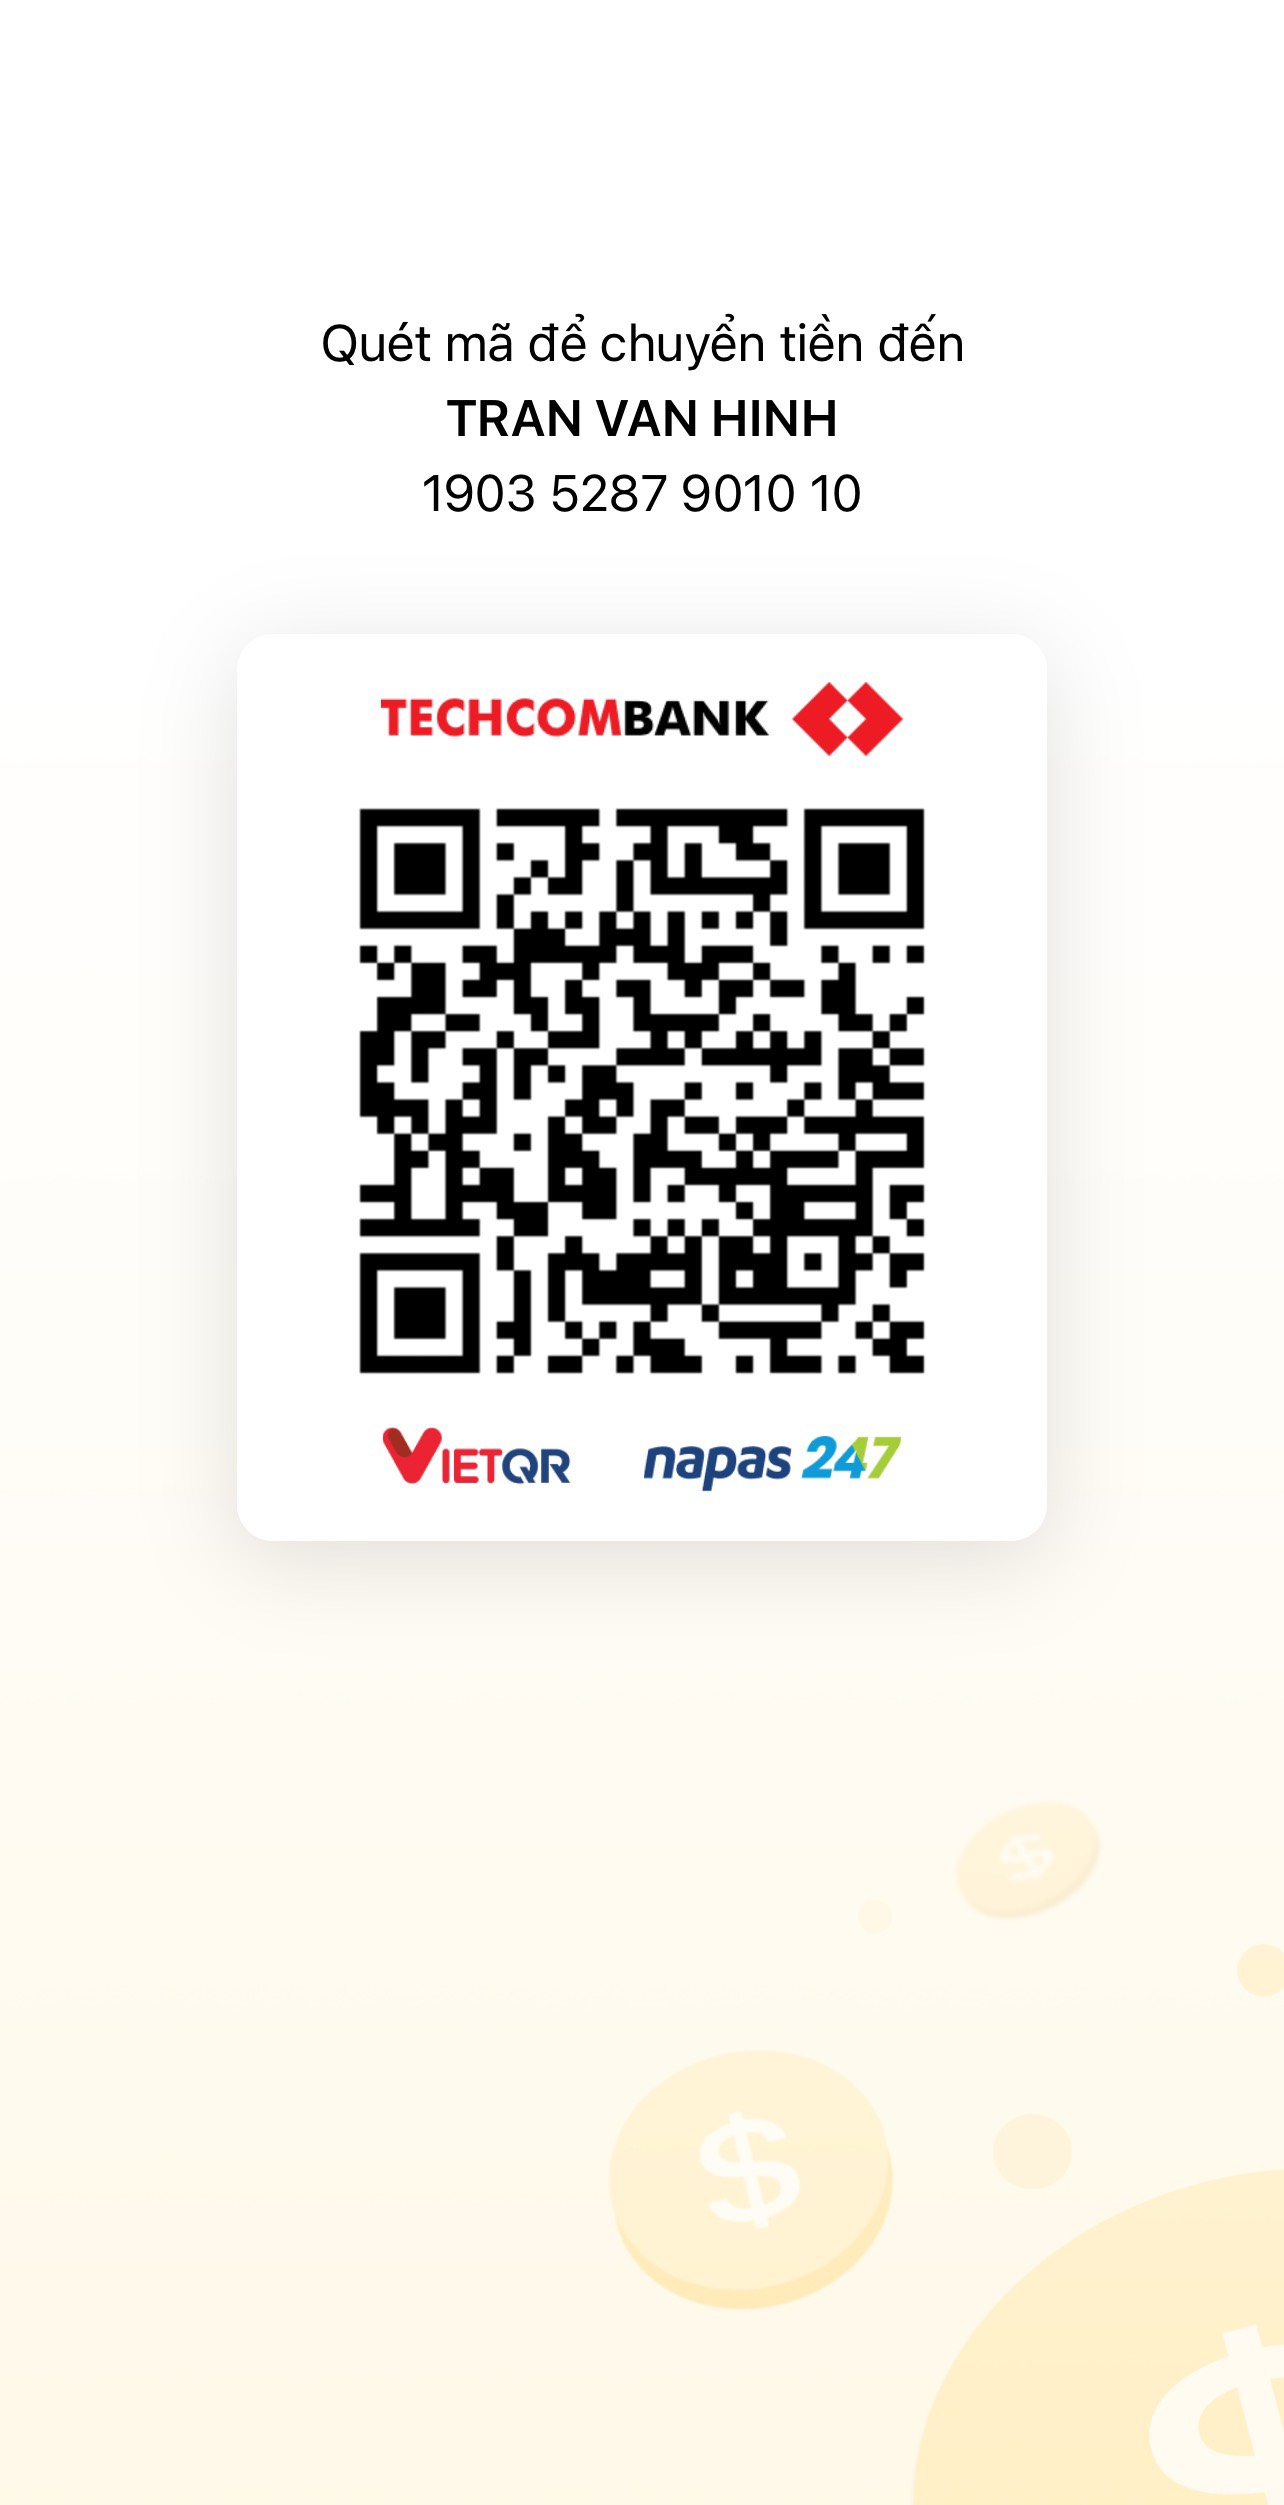
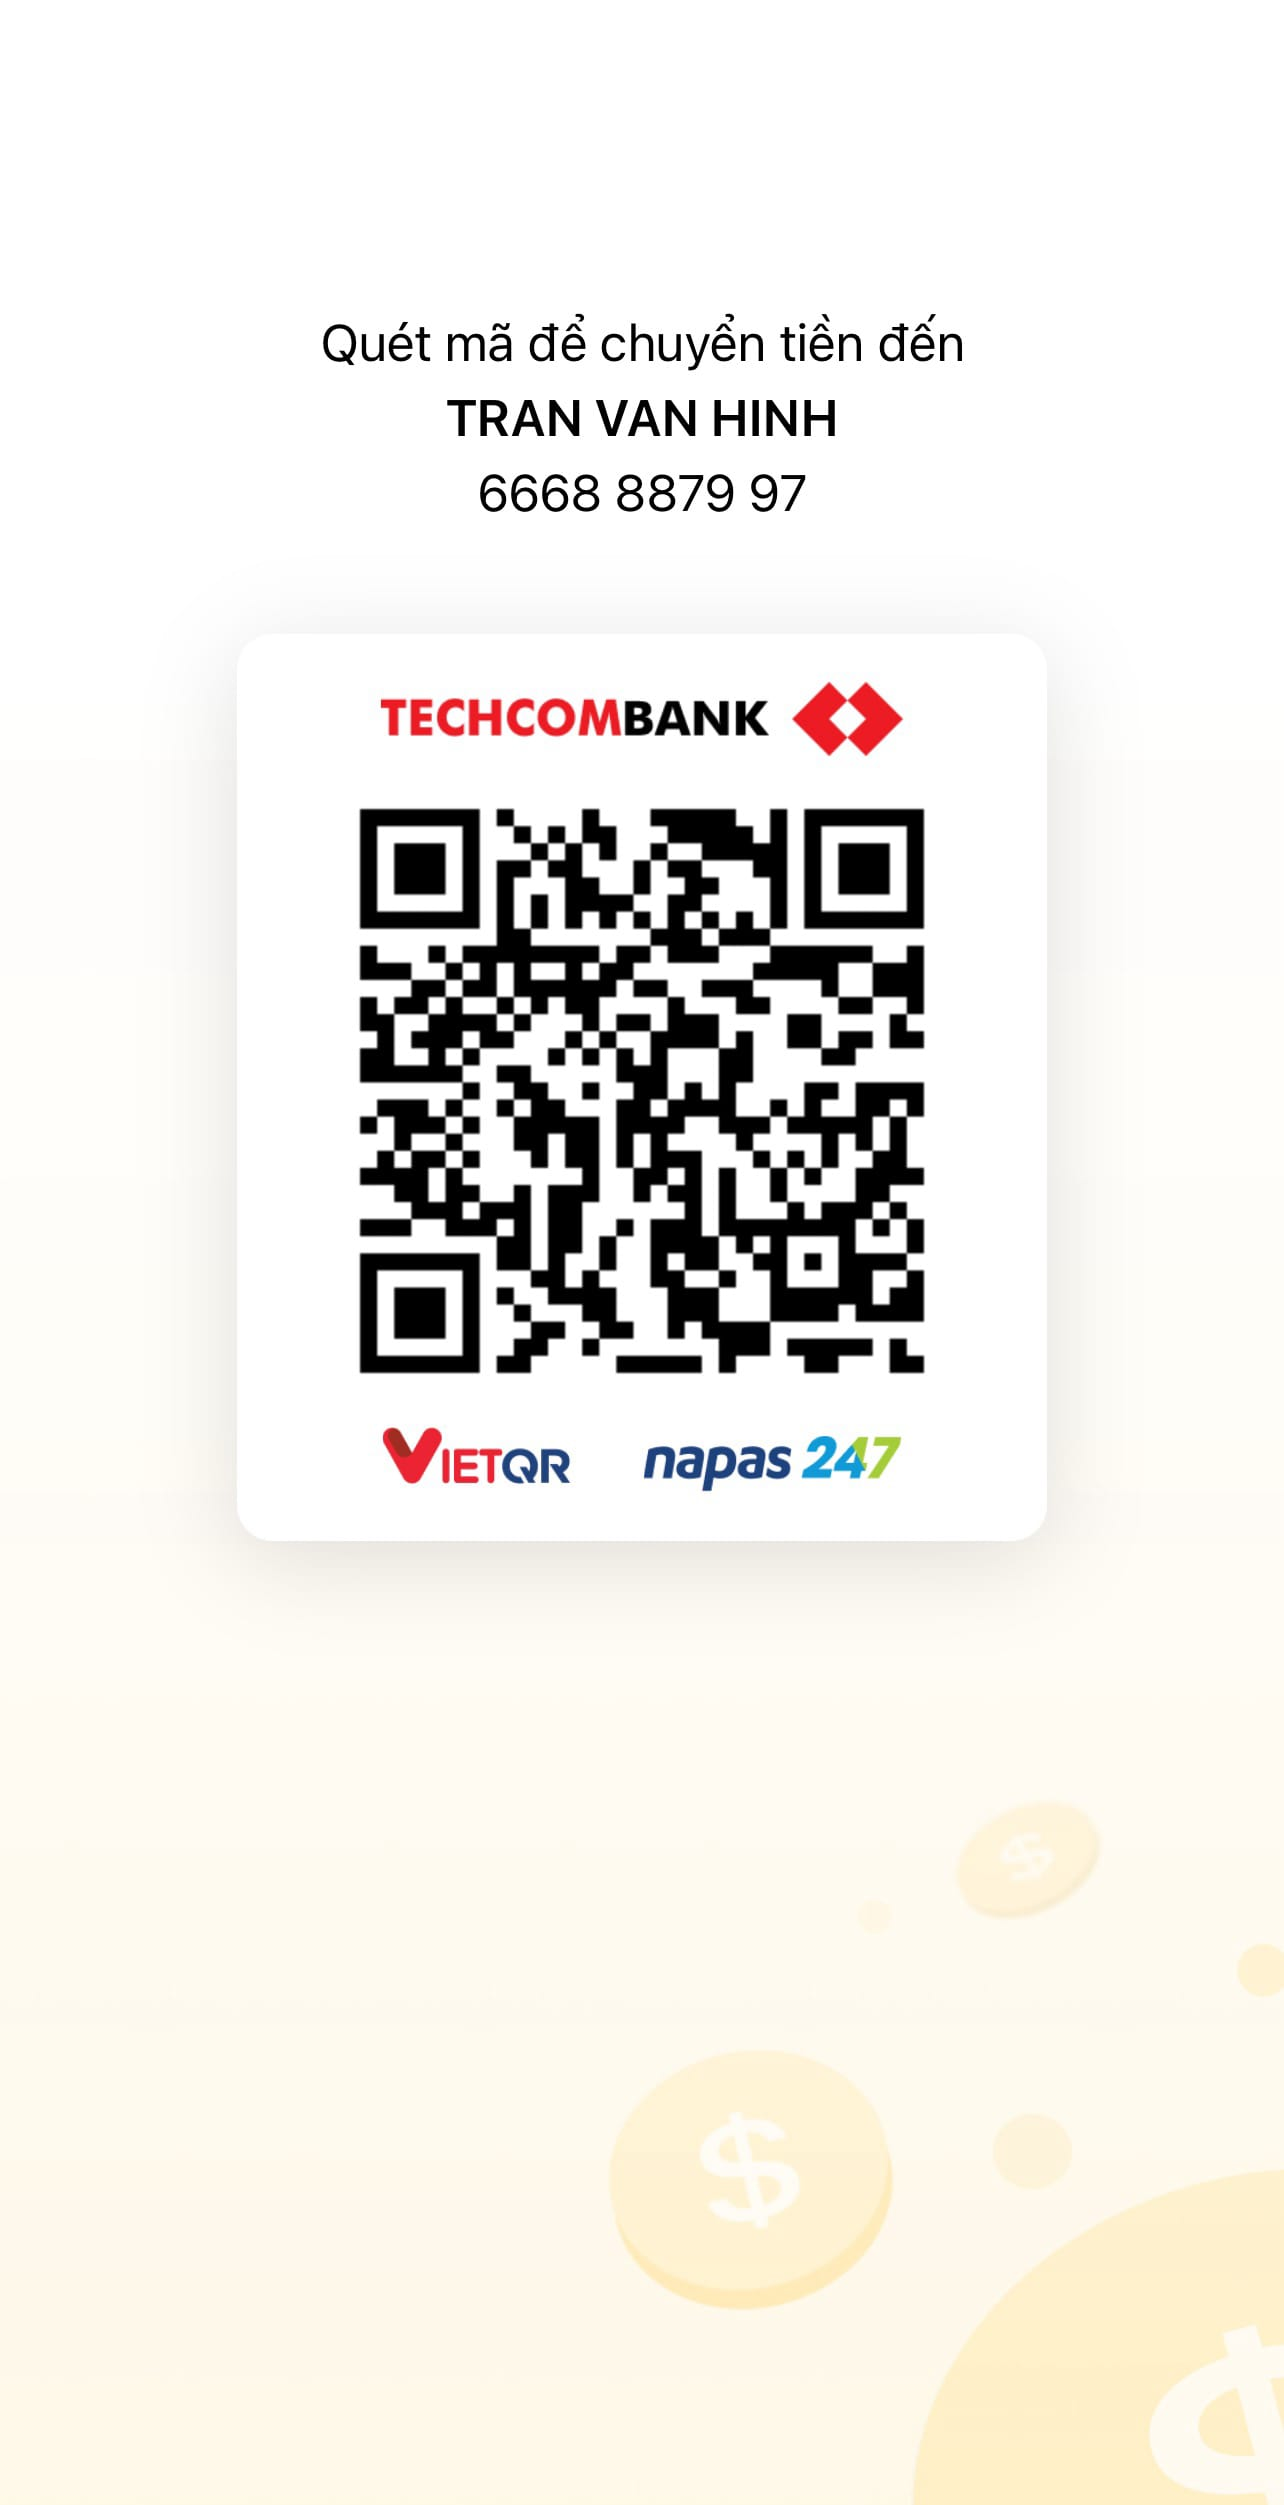
update hinh bank

Changed region(s): [[0.2804, 0.3114, 0.7477, 0.5605], [0.3427, 0.1868, 0.6542, 0.218]]

diff --git a/index.html b/index.html
@@ -973,7 +973,7 @@
                     <img class="qr-code-image m-auto mb-2" src="images/hinhbank.jpg" />
                     <p>Ngân hàng: <strong>Techcombank</strong></p>
                     <p>Tên tài khoản: <strong>Trần Văn Hinh </strong></p>
-                    <p>Số tài khoản: <strong>19035287901010</strong></p>
+                    <p>Số tài khoản: <strong>6668887997</strong></p>
                   </div>
                 </div>
               </div>
